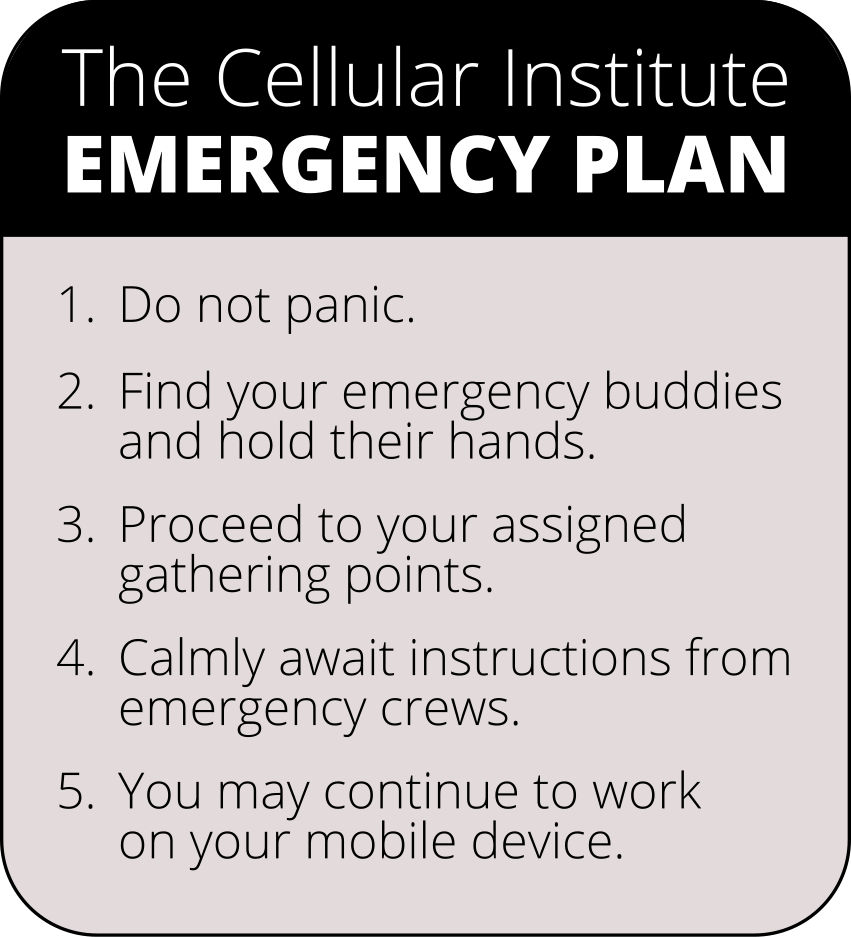
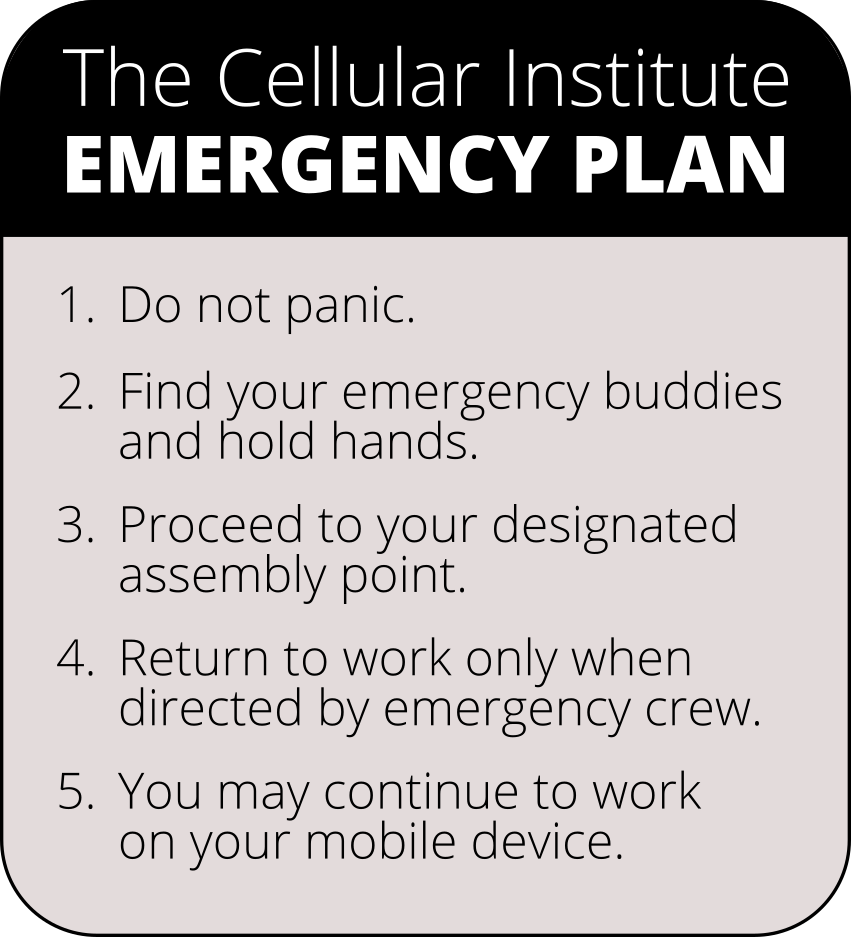
more narrative

diff --git a/blog/_posts/2015-09-10-about-endogenous-aggregates.md b/blog/_posts/2015-09-10-about-endogenous-aggregates.md
@@ -42,7 +42,7 @@ Here is the idyllic campus of the Cellular Institute with its manicured grounds 
 
 When suddenly: *catastrophe*. A fire breaks out. (Heat shock!) What happens?
 
-What has long been observed---blurrily, as if from orbit, because our  aren't so great---is that suddenly the workers move to particular places and gather together in big groups.
+What has long been observed---blurrily, as if from orbit, because our instruments aren't so great---is that suddenly the workers move to particular places and gather together in big groups.
 
 <center>
 <img src="/assets/images/fire-drill-blurry.png" width=300px>
@@ -52,7 +52,7 @@ Then after a little while, emergency crews show up, and some time after that, ev
 
 So what's going on? 
 
-Most previous work has guessed, for many good empirical reasons, that mainly what's going on is that the workers are distressed, damaged, even dying. The clumping together is because---gruesomely---heat partially melts them and makes them sticky. Of course, these workers stop working. Some injured workers can be rescued; many of them are beyond saving. The emergency crews triage victims, rescue some, and dispose of the bodies of the rest.
+Most previous work has guessed, for many good empirical reasons, that mainly what's going on is that the workers are distressed, damaged, even dying. Workers clump together because---gruesomely---heat partially melts them and makes them sticky. Of course, these workers stop working. Some injured workers can be rescued; many of them are beyond saving. The emergency crews triage victims, rescue some, and dispose of the bodies of the rest.
 
 <center>
 <img src="/assets/images/heat-shock-damage.png" width=550px>
@@ -62,10 +62,10 @@ Most previous work has guessed, for many good empirical reasons, that mainly wha
 The alternative is that the institute has in place disaster-preparedness plans. What we observe is those plans being carried out to the letter, and the plans for heat shock look like the plans for a wide range of other emergencies:
 
 <center>
-<img src="/assets/images/emergency-plan.png" width=350px>
+<img src="/assets/images/cellular-emergency-plan.png" width=350px>
 </center>
 
-Some workers stop working, but not because they're damaged, just because the emergency crew needs room. Others continue to go about their business. Those clumps are groups of emergency buddies holding on to each other and collecting at [designated assembly points](http://www.potsdam.edu/about/physicalplant/evacuationplans/procedures.cfm). The emergency crew shows up and tends to the few workers who are actually injured. When they're done, the crew helps the assembled workers back to their original jobs.
+Some workers stop working, but not because they're damaged, just to clear the way for the emergency crew. Others continue to go about their business. Those clumps are groups of workers calmly holding on to each other and collecting at [designated assembly points](http://www.potsdam.edu/about/physicalplant/evacuationplans/procedures.cfm). The emergency crew shows up and tends to the few workers who are actually injured. When they're done, the crew helps the assembled workers let go of each other and return to their original jobs.
 
 <center>
 <img src="/assets/images/heat-shock-assembly.png" width=550px>
@@ -77,15 +77,17 @@ Our study provides evidence that this latter set of activities describes the beh
 <img src="/assets/images/fire-drill-building-diagram.png" width=750px>
 </center>
 
+The "emergency crew" here is, naturally, the team of heat-induced molecular chaperones.
+
 ## How the study unfolded
 
-Way back in the day, we spent a lot of time developing cryogenic lysis and cellular fractionation (total, supernatant, pellet) methods for budding yeast. Mike Dion did careful and exhaustive studies on cell lysis by all sorts of methods.
+Way back in the day, we spent a lot of time developing cryogenic lysis and cellular fractionation (total, supernatant, pellet) methods for budding yeast. Mike Dion did exquisite, exhaustive, exhausting studies on cell lysis by all sorts of methods.
 
-We'd also developed our mass spectrometry (MS) capabilities to be able to do proteomics. We wanted to know what proteins formed aggregates under normal conditions in yeast cells. But we needed a positive control, a condition where aggregation would be obvious. Mike did what we thought was a simple study: proteome-scale in vivo thermal denaturation. The idea was to heat cells fast (50°C for two to eight minutes, a lethal shock for the vast majority of cells), then watch proteins misfold and aggregate, measuring aggregation by MS.
+We'd also developed our mass spectrometry (MS) capabilities to be able to do proteomics. We wanted to know what proteins formed aggregates under normal conditions in yeast cells. But we needed a positive control, a condition where aggregation would be obvious. Mike did what we thought was a simple but cool experiment: proteome-scale in vivo thermal denaturation. The idea was to heat cells fast (50°C for two to eight minutes, a lethal shock for the vast majority of cells), then watch proteins misfold and aggregate, measuring aggregation by MS.
 
 Well, lots of proteins formed aggregates, but we couldn't see any rhyme or reason to which ones did or didn't. I'd thought, based on [previous][2] [work][3], that low-expression proteins would be more prone to aggregate. Nope. What we had was data but no insight.
 
-The next big step came when [Alexandra Rojek](/team/alexandra-rojek/) joined the group as a summer undergraduate researcher. She recombinantly purified a few proteins we'd found to be heat-sensitive in cells, heated them in vitro, and found that they aggregated. So the proteins themselves were sensitive to heat. And then she and [Jamie Scott](/team/jamie-scott/) found the this heat-sensitive aggregation-prone behavior was specific to certain protein domains, like the N-terminal domain of a protein called Gus1. Oddly, Gus1N didn't show much structural change when it aggregated. And graduate student [Josh Riback] 
+The next big step came when [Alexandra Rojek](/team/alexandra-rojek/) joined the group as a summer undergraduate researcher. She recombinantly purified a few proteins we'd found to be heat-sensitive in cells, heated them in vitro, and found that they aggregated. So the proteins themselves were sensitive to heat. And then she and [Jamie Scott](/team/jamie-scott/) found the this heat-sensitive aggregation-prone behavior was specific to certain protein domains, like the N-terminal domain of a protein called Gus1. Oddly, Gus1N didn't show much structural change when it aggregated. And graduate student [Josh Riback](/team/josh-riback/) showed that the onset of aggregation closely tracked the 
 
 We realized we'd been thinking about the problem all wrong. We'd tried to thermally denature proteins---physics---but we had instead stumbled upon a stress-triggered molecular assembly process---biology. This point of view locked in when we found the literature on [heat-shock granules](http://www.ncbi.nlm.nih.gov/pmc/articles/PMC370018/), which were discovered in 1983 and studied by many groups since but which we'd been perfectly ignorant of. But studying a stress response using a lethal stress is obviously insane. We had to redo our entire study. What a terrible, necessary, awful realization!
 
@@ -95,17 +97,18 @@ Then a master's student on a one-year exchange program, [Pawel Laskowski], recon
 
 Jamie and Alexandra, with help from grad student [Chris Katanski](/team/chris-katanski/), built a bunch of strains to look at colocalization between aggregating proteins in live cells. They found all sorts of interesting stuff, most obviously new heat-shock granule components and new types of aggregates in the nucleus and nucleolus.
 
-We took the show on the road. The critical addition came when Edward and I talked about the work at the FASEB meeting _Protein Folding in the Cell_ in Vermont, he at his poster and I in a 12-minute talk. People kept asking, So, is the aggregation reversible? Turns out that for various reasons, this basic question had not been answered for anything but artificial reporter proteins. 
+We took the show on the road. The critical addition came when Edward and I talked about the work at the FASEB meeting _Protein Folding in the Cell_ in Vermont, he at his poster and I in a 12-minute talk. People kept asking, So, is the aggregation reversible? Turns out that for various reasons, this basic question had not been answered for cellular . 
 
-But we work with stable isotopes, which are perfect for this kind of question. In the back of the auditorium after my (pretty awful) talk, I sketched out the experiment. Actually, I made Figure 6A, the bottom experimental-design part, and showed it to Edward, who said, "Yep, I can do that." And he did, and in a gift from the universe and Edward's careful hands, it worked on the first try. Most importantly, it showed us what we'd not even dared hope: all the aggregates we could detect were fully reversible!
+But we work with stable isotopes, which are perfect for answering questions about . In the back of the auditorium after my (pretty awful) talk, I sketched out the experiment. Actually, I made Figure 6A, the bottom experimental-design part, and showed it to Edward, who said, "Yep, I can do that." And he did, and in a gift from the universe, it worked on the first try. Most importantly, the results showed us what we'd not even dared hope: all the aggregates we could detect were fully reversible!
 
-We wrote it up. While in Boston for the ASBMB annual meeting, we set up a meeting with Karen Carniol, who'd handled my 2008 [paper][2], and told her the story. She was interested---and suddenly formatting and edits that seemed like they would take weeks took two days. The reviews came back, some glowing, some positive but with many detailed criticisms and requests for additional experiments.
+We wrote it up. While in Boston for the ASBMB annual meeting, we set up a meeting with Karen Carniol, the editor at _Cell_ who'd handled my 2008 [paper][2], and told her the story. She was interested---and suddenly formatting and edits that seemed like they might take weeks took two days. The reviews came back, some quite heartwarming, one in particular supportive but with many detailed criticisms and requests for additional experiments.
 
 Most criticized were our experiments on activity in aggregated proteins. 
 
 ### Little things
 
-Our graphical abstract has no words.
+1. Our graphical abstract has no words.
+2. 
 	
 
 
